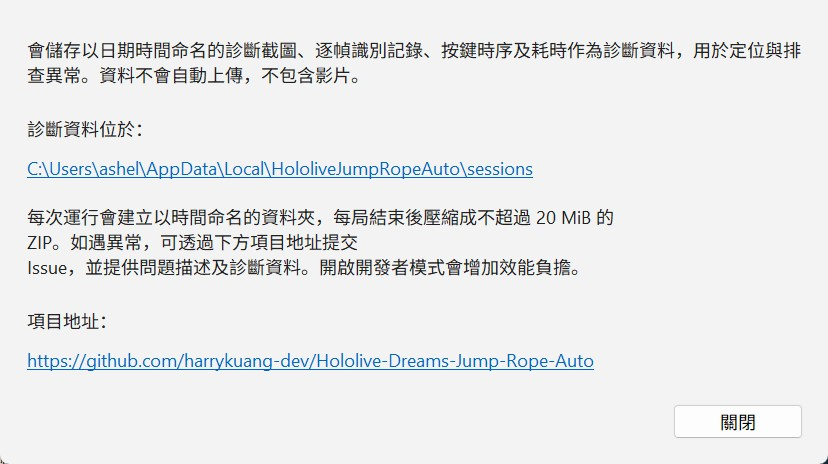
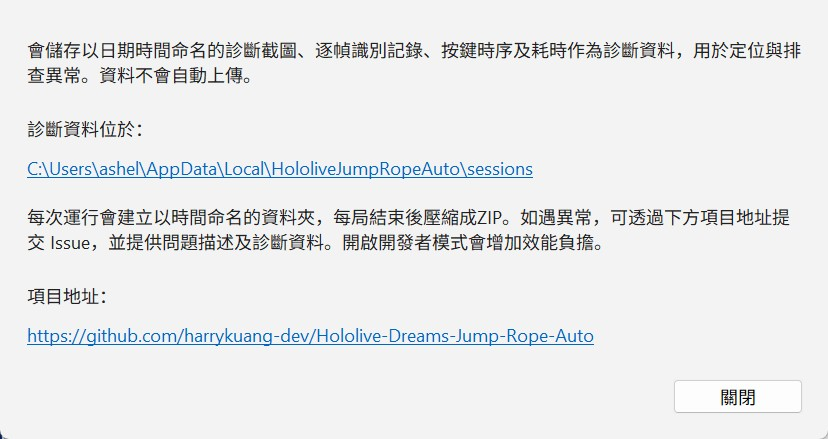
Update interface text

diff --git a/app_locale.py b/app_locale.py
@@ -3,7 +3,9 @@ LANGUAGES = {'繁體中文': 'zh-TW', '简体中文': 'zh-CN', 'English': 'en', 
 
 TEXT = {'en': {'title': 'Auto Jump Rope Assistant',
         'instructions': 'Open the jump-rope start or result screen, then select Start.\n'
-                        'Keep the game in the foreground, fully visible on the primary monitor.',
+                        'Keep the game in the foreground, fully visible on the primary monitor.\n'
+                        'Choose dark-colored, short-haired characters with minimal decorations and '
+                        'accessories.',
         'language': 'Language',
         'rounds': 'Round limit',
         'round_hint': '1–999 rounds; each start resets the count.',
@@ -11,24 +13,23 @@ TEXT = {'en': {'title': 'Auto Jump Rope Assistant',
         'capture_key': 'Press a shortcut key',
         'start': '▶  Start',
         'stop': '■  Stop',
-        'diagnostics': 'Developer mode (trace + diagnostic images)',
+        'diagnostics': 'Developer mode',
         'log': 'Activity log',
         'ready': 'Ready',
         'stopping': 'Stopping…',
         'counter': 'Completed {done} / {target} rounds',
-        'inputs': 'Jump inputs: {count} (not game score)',
+        'inputs': 'Jump inputs: {count}',
         'running': 'Round {index} / {target}',
         'stopped': 'Stopped: {reason}',
         'error': 'Error',
         'invalid': 'Use 1–999 rounds and valid shortcut keys.',
-        'footer': 'V27 · 25ms · Visual input only',
         'help_title': 'Developer mode information',
-        'help': 'Saves timestamped diagnostic screenshots, frame recognition records, input timing and '
-                'processing times to help locate and troubleshoot problems. Files are not uploaded '
-                'automatically. No video is saved.',
+        'help': 'Saves timestamped diagnostic screenshots, frame recognition records, input timing '
+                'and processing times to help locate and troubleshoot problems. Files are not '
+                'uploaded automatically.',
         'close': 'Close',
         'saved': 'Local diagnostics: {path}',
-        'round_done': 'Round {index}: {reason}; {count} inputs (not score)',
+        'round_done': 'Round {index}: {reason}; {count} inputs',
         'session_start': 'Starting a new session ({target} rounds).',
         'reason_round_finished': 'round complete',
         'reason_stopped': 'stop requested',
@@ -43,15 +44,16 @@ TEXT = {'en': {'title': 'Auto Jump Rope Assistant',
         'start_shortcut': 'Start shortcut',
         'packing': 'Packaging round {index} diagnostics…',
         'archive': 'Issue attachment ZIP: {path}',
-        'hotkey_error': 'Could not register {key}; choose another start shortcut or use the Start button.',
+        'hotkey_error': 'Could not register {key}; choose another start shortcut or use the Start '
+                        'button.',
         'help_location': 'Diagnostic files:',
-        'help_usage': 'Each run creates a timestamped folder. After each round, the files are compressed '
-                      'into a ZIP no larger than 20 MiB. If a problem occurs, open an issue at the project '
-                      'link below and include a description and the diagnostic files. Developer mode '
-                      'increases processing overhead.',
+        'help_usage': 'Each run creates a timestamped folder. After each round, the files are '
+                      'compressed into a ZIP. If a problem occurs, open an issue at the project '
+                      'link below and include a description and the diagnostic files. Developer '
+                      'mode increases processing overhead.',
         'help_project': 'Project:'},
  'zh-TW': {'title': '自動跳繩助手',
-           'instructions': '開啟跳繩的開始或結算畫面，再按「開始」。\n請保持遊戲前景、完整位於主螢幕內且無遮擋。',
+           'instructions': '開啟跳繩的開始或結算畫面，再按「開始」。\n請保持遊戲前景、完整位於主螢幕內且無遮擋。\n建議選用深色、短髮、裝飾少的角色和配飾',
            'language': '語言/Language',
            'rounds': '目標局數',
            'round_hint': '1–999 局；每次開始都重新計數。',
@@ -59,22 +61,21 @@ TEXT = {'en': {'title': 'Auto Jump Rope Assistant',
            'capture_key': '請按下快捷鍵',
            'start': '▶  開始',
            'stop': '■  停止',
-           'diagnostics': '開發者模式（記錄＋診斷圖）',
+           'diagnostics': '開發者模式',
            'log': '執行記錄',
            'ready': '待機中',
            'stopping': '停止中…',
            'counter': '已完成 {done} / {target} 局',
-           'inputs': '起跳輸入 {count} 次（非遊戲分數）',
+           'inputs': '起跳輸入 {count} 次',
            'running': '第 {index} / {target} 局',
            'stopped': '已停止：{reason}',
            'error': '錯誤',
            'invalid': '局數須為 1–999，快捷鍵須有效。',
-           'footer': 'V27 · 25ms · 僅依據畫面操作',
            'help_title': '開發者模式說明',
-           'help': '會儲存以日期時間命名的診斷截圖、逐幀識別記錄、按鍵時序及耗時作為診斷資料，用於定位與排查異常。資料不會自動上傳，不包含影片。',
+           'help': '會儲存以日期時間命名的診斷截圖、逐幀識別記錄、按鍵時序及耗時作為診斷資料，用於定位與排查異常。資料不會自動上傳。',
            'close': '關閉',
            'saved': '本機診斷：{path}',
-           'round_done': '第 {index} 局：{reason}；輸入 {count} 次（非分數）',
+           'round_done': '第 {index} 局：{reason}；輸入 {count} 次',
            'session_start': '開始新一批測試（{target} 局）。',
            'reason_round_finished': '本局完成',
            'reason_stopped': '停止操作',
@@ -91,11 +92,11 @@ TEXT = {'en': {'title': 'Auto Jump Rope Assistant',
            'archive': '可附 Issue 的診斷ZIP：{path}',
            'hotkey_error': '無法註冊 {key}；請更換開始快捷鍵，或使用開始按鈕。',
            'help_location': '診斷資料位於：',
-           'help_usage': '每次運行會建立以時間命名的資料夾，每局結束後壓縮成不超過 20 MiB 的 ZIP。如遇異常，可透過下方項目地址提交 '
+           'help_usage': '每次運行會建立以時間命名的資料夾，每局結束後壓縮成ZIP。如遇異常，可透過下方項目地址提交 '
                          'Issue，並提供問題描述及診斷資料。開啟開發者模式會增加效能負擔。',
            'help_project': '項目地址：'},
  'zh-CN': {'title': '自动跳绳助手',
-           'instructions': '打开跳绳的开始或结算画面，再按“开始”。\n请保持游戏前景、完整位于主屏幕内且无遮挡。',
+           'instructions': '打开跳绳的开始或结算画面，再按“开始”。\n请保持游戏前景、完整位于主屏幕内且无遮挡。\n建议选用深色、短发、装饰少的角色和配饰',
            'language': '语言/Language',
            'rounds': '目标局数',
            'round_hint': '1–999 局；每次开始都重新计数。',
@@ -103,22 +104,21 @@ TEXT = {'en': {'title': 'Auto Jump Rope Assistant',
            'capture_key': '请按下快捷键',
            'start': '▶  开始',
            'stop': '■  停止',
-           'diagnostics': '开发者模式（记录＋诊断图）',
+           'diagnostics': '开发者模式',
            'log': '运行记录',
            'ready': '待机中',
            'stopping': '停止中…',
            'counter': '已完成 {done} / {target} 局',
-           'inputs': '起跳输入 {count} 次（非游戏分数）',
+           'inputs': '起跳输入 {count} 次',
            'running': '第 {index} / {target} 局',
            'stopped': '已停止：{reason}',
            'error': '错误',
            'invalid': '局数须为 1–999，快捷键须有效。',
-           'footer': 'V27 · 25ms · 仅依据画面操作',
            'help_title': '开发者模式说明',
-           'help': '会保存以日期时间命名的诊断截图、逐帧识别记录、按键时序及耗时作为诊断资料，用于定位与排查异常。资料不会自动上传，不包含视频。',
+           'help': '会保存以日期时间命名的诊断截图、逐帧识别记录、按键时序及耗时作为诊断资料，用于定位与排查异常。资料不会自动上传。',
            'close': '关闭',
            'saved': '本机诊断：{path}',
-           'round_done': '第 {index} 局：{reason}；输入 {count} 次（非分数）',
+           'round_done': '第 {index} 局：{reason}；输入 {count} 次',
            'session_start': '开始新一批测试（{target} 局）。',
            'reason_round_finished': '本局完成',
            'reason_stopped': '停止操作',
@@ -135,11 +135,13 @@ TEXT = {'en': {'title': 'Auto Jump Rope Assistant',
            'archive': '可附 Issue 的诊断ZIP：{path}',
            'hotkey_error': '无法注册 {key}；请更换开始快捷键，或使用开始按钮。',
            'help_location': '诊断资料位于：',
-           'help_usage': '每次运行会建立以时间命名的文件夹，每局结束后压缩成不超过 20 MiB 的 ZIP。如遇异常，可通过下方项目地址提交 '
+           'help_usage': '每次运行会建立以时间命名的文件夹，每局结束后压缩成ZIP。如遇异常，可通过下方项目地址提交 '
                          'Issue，并提供问题描述及诊断资料。开启开发者模式会增加性能负担。',
            'help_project': '项目地址：'},
  'ja': {'title': '自動なわとびアシスタント',
-        'instructions': 'なわとびの開始・結果画面を開いてから開始してください。\nゲームを前面に保ち、メイン画面内で隠さないでください。',
+        'instructions': 'なわとびの開始・結果画面を開いてから開始してください。\n'
+                        'ゲームを前面に保ち、メイン画面内で隠さないでください。\n'
+                        '暗い色で短髪、装飾やアクセサリーの少ないキャラクターがおすすめです。',
         'language': '言語/Language',
         'rounds': 'プレイ回数',
         'round_hint': '1–999 回。開始ごとにカウントをリセット。',
@@ -147,22 +149,21 @@ TEXT = {'en': {'title': 'Auto Jump Rope Assistant',
         'capture_key': 'ショートカットキーを押してください',
         'start': '▶  開始',
         'stop': '■  停止',
-        'diagnostics': '開発者モード（記録＋診断画像）',
+        'diagnostics': '開発者モード',
         'log': '実行履歴',
         'ready': '待機中',
         'stopping': '停止中…',
         'counter': '完了 {done} / {target} 回',
-        'inputs': 'ジャンプ入力 {count} 回（ゲーム得点ではありません）',
+        'inputs': 'ジャンプ入力 {count} 回',
         'running': 'プレイ {index} / {target}',
         'stopped': '停止：{reason}',
         'error': 'エラー',
         'invalid': '回数は1–999、有効なショートカットキーを指定してください。',
-        'footer': 'V27 · 25ms · 画面からの操作のみ',
         'help_title': '開発者モードの説明',
-        'help': '日時付きの診断画像、フレームごとの認識記録、入力時刻と処理時間を保存し、不具合の調査に使用します。データは自動送信されません。動画は保存しません。',
+        'help': '日時付きの診断画像、フレームごとの認識記録、入力時刻と処理時間を保存し、不具合の調査に使用します。データは自動送信されません。',
         'close': '閉じる',
         'saved': 'ローカル診断：{path}',
-        'round_done': 'プレイ {index}：{reason}；入力 {count} 回（得点ではありません）',
+        'round_done': 'プレイ {index}：{reason}；入力 {count} 回',
         'session_start': '新しいテストを開始（{target} 回）。',
         'reason_round_finished': 'プレイ完了',
         'reason_stopped': '停止要求',
@@ -179,11 +180,12 @@ TEXT = {'en': {'title': 'Auto Jump Rope Assistant',
         'archive': 'Issue 添付用ZIP：{path}',
         'hotkey_error': '{key} を登録できません。別の開始キーか開始ボタンを使ってください。',
         'help_location': '診断データの保存先：',
-        'help_usage': '実行ごとに日時付きフォルダーを作成し、各回終了後20 '
-                      'MiB以下のZIPに圧縮します。不具合があれば、下記プロジェクトのIssueに状況と診断データを添えて報告してください。開発者モードでは処理負荷が増加します。',
+        'help_usage': '実行ごとに日時付きフォルダーを作成し、各回終了後にZIPに圧縮します。不具合があれば、下記プロジェクトのIssueに状況と診断データを添えて報告してください。開発者モードでは処理負荷が増加します。',
         'help_project': 'プロジェクト：'},
  'ko': {'title': '자동 줄넘기 도우미',
-        'instructions': '줄넘기 시작 또는 결과 화면을 열고 시작을 누르세요.\n게임을 전면에 두고 주 모니터에서 가리지 마세요.',
+        'instructions': '줄넘기 시작 또는 결과 화면을 열고 시작을 누르세요.\n'
+                        '게임을 전면에 두고 주 모니터에서 가리지 마세요.\n'
+                        '어두운 색상, 짧은 머리, 장식과 액세서리가 적은 캐릭터를 권장합니다.',
         'language': '언어/Language',
         'rounds': '목표 라운드',
         'round_hint': '1–999 라운드. 시작할 때마다 집계를 초기화합니다.',
@@ -191,22 +193,21 @@ TEXT = {'en': {'title': 'Auto Jump Rope Assistant',
         'capture_key': '단축키를 눌러 주세요',
         'start': '▶  시작',
         'stop': '■  정지',
-        'diagnostics': '개발자 모드 (기록 + 진단 이미지)',
+        'diagnostics': '개발자 모드',
         'log': '실행 기록',
         'ready': '대기 중',
         'stopping': '정지 중…',
         'counter': '완료 {done} / {target} 라운드',
-        'inputs': '점프 입력 {count} 회 (게임 점수가 아님)',
+        'inputs': '점프 입력 {count} 회',
         'running': '라운드 {index} / {target}',
         'stopped': '정지: {reason}',
         'error': '오류',
         'invalid': '1–999라운드와 유효한 단축키를 지정하세요.',
-        'footer': 'V27 · 25ms · 화면 기반 입력',
         'help_title': '개발자 모드 안내',
-        'help': '문제 분석을 위해 날짜와 시간이 포함된 진단 이미지, 프레임별 인식 기록, 입력 시점 및 처리 시간을 저장합니다. 자동 업로드하지 않으며 영상은 저장하지 않습니다.',
+        'help': '문제 분석을 위해 날짜와 시간이 포함된 진단 이미지, 프레임별 인식 기록, 입력 시점 및 처리 시간을 저장합니다. 자동 업로드하지 않습니다.',
         'close': '닫기',
         'saved': '로컬 진단: {path}',
-        'round_done': '라운드 {index}: {reason}; 입력 {count} 회 (점수가 아님)',
+        'round_done': '라운드 {index}: {reason}; 입력 {count} 회',
         'session_start': '새 테스트 시작 ({target} 라운드).',
         'reason_round_finished': '라운드 완료',
         'reason_stopped': '정지 요청',
@@ -223,12 +224,14 @@ TEXT = {'en': {'title': 'Auto Jump Rope Assistant',
         'archive': 'Issue 첨부용 ZIP: {path}',
         'hotkey_error': '{key} 등록 실패. 다른 시작 단축키나 시작 버튼을 사용하세요.',
         'help_location': '진단 자료 위치:',
-        'help_usage': '실행할 때마다 시간으로 이름을 지정한 폴더를 만들고 라운드 종료 후20 MiB이하의ZIP으로 압축합니다. 문제가 발생하면 아래 프로젝트의Issue에 문제 '
-                      '설명과 진단 자료를 첨부하세요. 개발자 모드는 처리 부하를 증가시킵니다.',
+        'help_usage': '실행할 때마다 시간으로 이름을 지정한 폴더를 만들고 라운드 종료 후 ZIP으로 압축합니다. 문제가 발생하면 아래 프로젝트의 Issue에 '
+                      '문제 설명과 진단 자료를 첨부하세요. 개발자 모드는 처리 부하를 증가시킵니다.',
         'help_project': '프로젝트:'},
  'id': {'title': 'Asisten Lompat Tali Otomatis',
         'instructions': 'Buka layar mulai atau hasil lompat tali, lalu pilih Mulai.\n'
-                        'Jaga game di depan, terlihat utuh pada monitor utama.',
+                        'Jaga game di depan, terlihat utuh pada monitor utama.\n'
+                        'Disarankan memilih karakter berwarna gelap, berambut pendek, dengan '
+                        'sedikit hiasan dan aksesori.',
         'language': 'Bahasa/Language',
         'rounds': 'Batas ronde',
         'round_hint': '1–999 ronde; setiap mulai mengatur ulang hitungan.',
@@ -236,24 +239,23 @@ TEXT = {'en': {'title': 'Auto Jump Rope Assistant',
         'capture_key': 'Tekan tombol pintasan',
         'start': '▶  Mulai',
         'stop': '■  Berhenti',
-        'diagnostics': 'Mode pengembang (catatan + gambar diagnostik)',
+        'diagnostics': 'Mode pengembang',
         'log': 'Riwayat aktivitas',
         'ready': 'Siap',
         'stopping': 'Menghentikan…',
         'counter': 'Selesai {done} / {target} ronde',
-        'inputs': 'Input lompat: {count} (bukan skor game)',
+        'inputs': 'Input lompat: {count}',
         'running': 'Ronde {index} / {target}',
         'stopped': 'Berhenti: {reason}',
         'error': 'Kesalahan',
         'invalid': 'Gunakan 1–999 ronde dan tombol pintasan yang valid.',
-        'footer': 'V27 · 25ms · Input dari gambar layar',
         'help_title': 'Penjelasan mode pengembang',
-        'help': 'Menyimpan gambar diagnostik bertanggal dan berwaktu, catatan pengenalan tiap frame, waktu '
-                'input dan durasi pemrosesan untuk menelusuri masalah. Data tidak diunggah otomatis. Video '
-                'tidak disimpan.',
+        'help': 'Menyimpan gambar diagnostik bertanggal dan berwaktu, catatan pengenalan tiap '
+                'frame, waktu input dan durasi pemrosesan untuk menelusuri masalah. Data tidak '
+                'diunggah otomatis.',
         'close': 'Tutup',
         'saved': 'Diagnostik lokal: {path}',
-        'round_done': 'Ronde {index}: {reason}; {count} input (bukan skor)',
+        'round_done': 'Ronde {index}: {reason}; {count} input',
         'session_start': 'Mulai sesi baru ({target} ronde).',
         'reason_round_finished': 'ronde selesai',
         'reason_stopped': 'permintaan berhenti',
@@ -268,12 +270,13 @@ TEXT = {'en': {'title': 'Auto Jump Rope Assistant',
         'start_shortcut': 'Tombol mulai',
         'packing': 'Menyiapkan diagnostik ronde {index}…',
         'archive': 'ZIP lampiran Issue: {path}',
-        'hotkey_error': 'Tidak dapat mendaftarkan {key}; pilih tombol mulai lain atau gunakan tombol Mulai.',
+        'hotkey_error': 'Tidak dapat mendaftarkan {key}; pilih tombol mulai lain atau gunakan '
+                        'tombol Mulai.',
         'help_location': 'Lokasi data diagnostik:',
-        'help_usage': 'Setiap proses membuat folder dengan nama waktu. Setelah setiap ronde, data dikompres '
-                      'menjadiZIP maksimal20 MiB. Jika ada masalah, bukaIssue melalui tautan proyek di bawah '
-                      'dengan deskripsi masalah dan data diagnostik. Mode pengembang menambah beban '
-                      'pemrosesan.',
+        'help_usage': 'Setiap proses membuat folder dengan nama waktu. Setelah setiap ronde, data '
+                      'dikompres menjadi ZIP. Jika ada masalah, buka Issue melalui tautan proyek '
+                      'di bawah dengan deskripsi masalah dan data diagnostik. Mode pengembang '
+                      'menambah beban pemrosesan.',
         'help_project': 'Proyek:'}}
 
 

diff --git a/tools/verify_v27_replay.py b/tools/verify_v27_replay.py
@@ -22,7 +22,7 @@ def verify_promotion():
         actual = hashlib.sha256((ROOT/name).read_bytes()).hexdigest()
         assert actual == manifest['source_sha256'][name], name
         sources[name] = actual
-    # Exact adaptations: recording/import wiring and removal of the fixed F9 stop.
+    # Exact adaptations: recording/import wiring, fixed F9 removal and log wording.
     controller = (ROOT/'jump_rope_bot.py').read_text(encoding='utf-8')
     controller = controller.replace('from v27_detector import VisualPassDetector','from rope_track import VisualPassDetector')
     controller = controller.replace('from diagnostics import RoundDiagnostics as EvidenceRecorder','from evidence import EvidenceRecorder')
@@ -33,6 +33,8 @@ def verify_promotion():
     original = original.replace('Original input cooldown, F9, focus and visibility guards remain.',
                                 'Original input cooldown, configured stop, focus and visibility guards remain.')
     original = original.replace('按 F9 或 Ctrl+C 停止。','按 Ctrl+C 停止。')
+    original = original.replace('啟動前已辨識並點擊 %s；本局結束後不會再操作選單',
+                                '啟動前已辨識並點擊 %s')
     assert controller == original
     # Only the menu recognizer changed in vision; capture, RoundGate and navigator are identical.
     def without_startup(s):

diff --git a/tests/test_gui.py b/tests/test_gui.py
@@ -41,7 +41,7 @@ def dispose(root, app):
 
 
 @pytest.mark.parametrize('dpi', [96,120,144,192])
-def test_translated_controls_and_footer_fit_at_supported_dpis(dpi, root):
+def test_translated_controls_fit_at_supported_dpis(dpi, root):
     root.withdraw()
     root.maxsize(3840,2160)
     with patch('main_ui.window_dpi',return_value=dpi), patch('main_ui.window_work_area',return_value=(3840,2160)):
@@ -56,7 +56,7 @@ def test_translated_controls_and_footer_fit_at_supported_dpis(dpi, root):
             assert app.start_button.winfo_height() == app.stop_button.winfo_height()
             assert app.start_button.winfo_width() == app.stop_button.winfo_width()
             assert app.log.winfo_height() >= 40
-            assert app.footer.winfo_rooty()+app.footer.winfo_height() <= root.winfo_rooty()+root.winfo_height()
+            assert app.log.winfo_rooty()+app.log.winfo_height() <= root.winfo_rooty()+root.winfo_height()
             assert app.language_choice.winfo_rootx()+app.language_choice.winfo_width() <= root.winfo_rootx()+root.winfo_width()
     finally:
         dispose(root, app)

diff --git a/main_ui.py b/main_ui.py
@@ -177,7 +177,6 @@ class JumpRopeApp:
         self.log.configure(yscrollcommand=scroll.set)
         scroll.pack(side='right',fill='y')
         self.log.pack(fill='both',expand=True)
-        label('footer',10,'Muted.TLabel',(self.px(10),0))
 
     def apply_language(self,_event=None):
         self.root.title(f'Hololive Dreams — {self.tr("title")} v{APP_VERSION}')
@@ -185,7 +184,7 @@ class JumpRopeApp:
                 (self.language_label,'language'),(self.rounds_label,'rounds'),(self.round_hint,'round_hint'),
                 (self.shortcut_label,'shortcut'),(self.start_shortcut_label,'start_shortcut'),(self.start_button,'start'),
                 (self.stop_button,'stop'),(self.diagnostics_check,'diagnostics'),
-                (self.log_title,'log'),(self.footer,'footer')):
+                (self.log_title,'log')):
             widget.configure(text=self.tr(key))
         if not self.worker or not self.worker.is_alive():
             self.status.configure(text=self.tr('ready'),foreground=self.MUTED)

diff --git a/jump_rope_bot.py b/jump_rope_bot.py
@@ -392,7 +392,7 @@ class JumpRopeBot:
                         if startup_screen.identify(fresh) == action and self.tap_startup(
                                 action, fresh, startup_screen):
                             navigator.mark_clicked(action)
-                            LOG.info("啟動前已辨識並點擊 %s；本局結束後不會再操作選單", action)
+                            LOG.info("啟動前已辨識並點擊 %s", action)
                             record(frame, now, hud=False, player_ready=False,
                                    menu_action=action,
                                    menu_input_elapsed=self.menu_actions[-1][1]-started)

diff --git a/tools/build_release.py b/tools/build_release.py
@@ -8,7 +8,7 @@ def main():
     root = Path(__file__).resolve().parents[1]
     subprocess.run([sys.executable,str(root/'tools'/'make_icon.py')],cwd=root,check=True)
     subprocess.run([sys.executable,'-m','PyInstaller','--clean','--noconfirm','--onefile','--windowed',
-        '--name','HololiveDreamsJumpRopeAuto-V27','--hidden-import','win32timezone',
+        '--name','HololiveDreamsJumpRopeAuto-1.0','--hidden-import','win32timezone',
         '--hidden-import','dxcam','--paths','.', '--icon','assets/jump-rope.ico',
         '--version-file','assets/version_info.txt',
         '--add-data','assets/jump-rope.ico;assets',

diff --git a/batch_session.py b/batch_session.py
@@ -20,7 +20,7 @@ from jump_rope_bot import BotConfig, JumpRopeBot
 from session_flow import wait_for_result_page
 from vision import GameCapture
 
-APP_VERSION = '0.2.0'
+APP_VERSION = '1.0'
 LOG = logging.getLogger('jump-rope-auto')
 
 

diff --git a/README.md b/README.md
@@ -1,4 +1,4 @@
-# Hololive Dreams Jump Rope Auto — V27
+# Hololive Dreams Jump Rope Auto — 1.0
 
 Windows 上的实时视觉跳绳助手。V27 使用已选定的 `speed2 + snap_clock` 控制核心，按键保持 **25ms**。图形界面参考 [Fishing Auto](https://github.com/harrykuang-dev/Hololive-Dreams-Fishing-Auto)，支持繁體中文、简体中文、English、日本語、한국어和 Indonesian。
 
@@ -6,7 +6,7 @@ Windows 上的实时视觉跳绳助手。V27 使用已选定的 `speed2 + snap_c
 
 ## 使用
 
-运行 `HololiveDreamsJumpRopeAuto-V27.exe`，打开游戏的跳绳游玩入口或成绩页，设定局数后按 **F8** 或点击开始。游戏须在前景，完整位于主屏幕内且无遮挡。EXE 自带运行环境。
+运行 `HololiveDreamsJumpRopeAuto-1.0.exe`，打开游戏的跳绳游玩入口或成绩页，设定局数后按 **F8** 或点击开始。游戏须在前景，完整位于主屏幕内且无遮挡。建议选用深色、短发、装饰少的角色和配饰。EXE 自带运行环境。
 
 - 局数范围 1–999，默认一局；每次开始重新计数。上一局稳定显示成绩页后才开下一局。
 - 可分别设置开始、停止快捷键，默认F8开始、F9停止。点击快捷键栏，再按键录入；更换停止快捷键后只响应新设置。
@@ -49,7 +49,7 @@ python main_ui.py
 python -m pytest -q
 python -m pytest -q -m gui
 python tools/build_release.py
-python tools/verify_release_bundle.py dist/HololiveDreamsJumpRopeAuto-V27.exe --output build-verification.json
+python tools/verify_release_bundle.py dist/HololiveDreamsJumpRopeAuto-1.0.exe --output build-verification.json
 ```
 
 GUI测试使用模拟会话，不操作游戏，但会创建测试窗口，应在没有实战测试运行时执行。构建出的EXE只附带用户指定的显示用Logo，不包含Unity资源包、解包工具、游戏逻辑数据、历史实验程序或录像编码工具。`work/`、`build/`、`dist/`及大型测试资料不进入Git。
